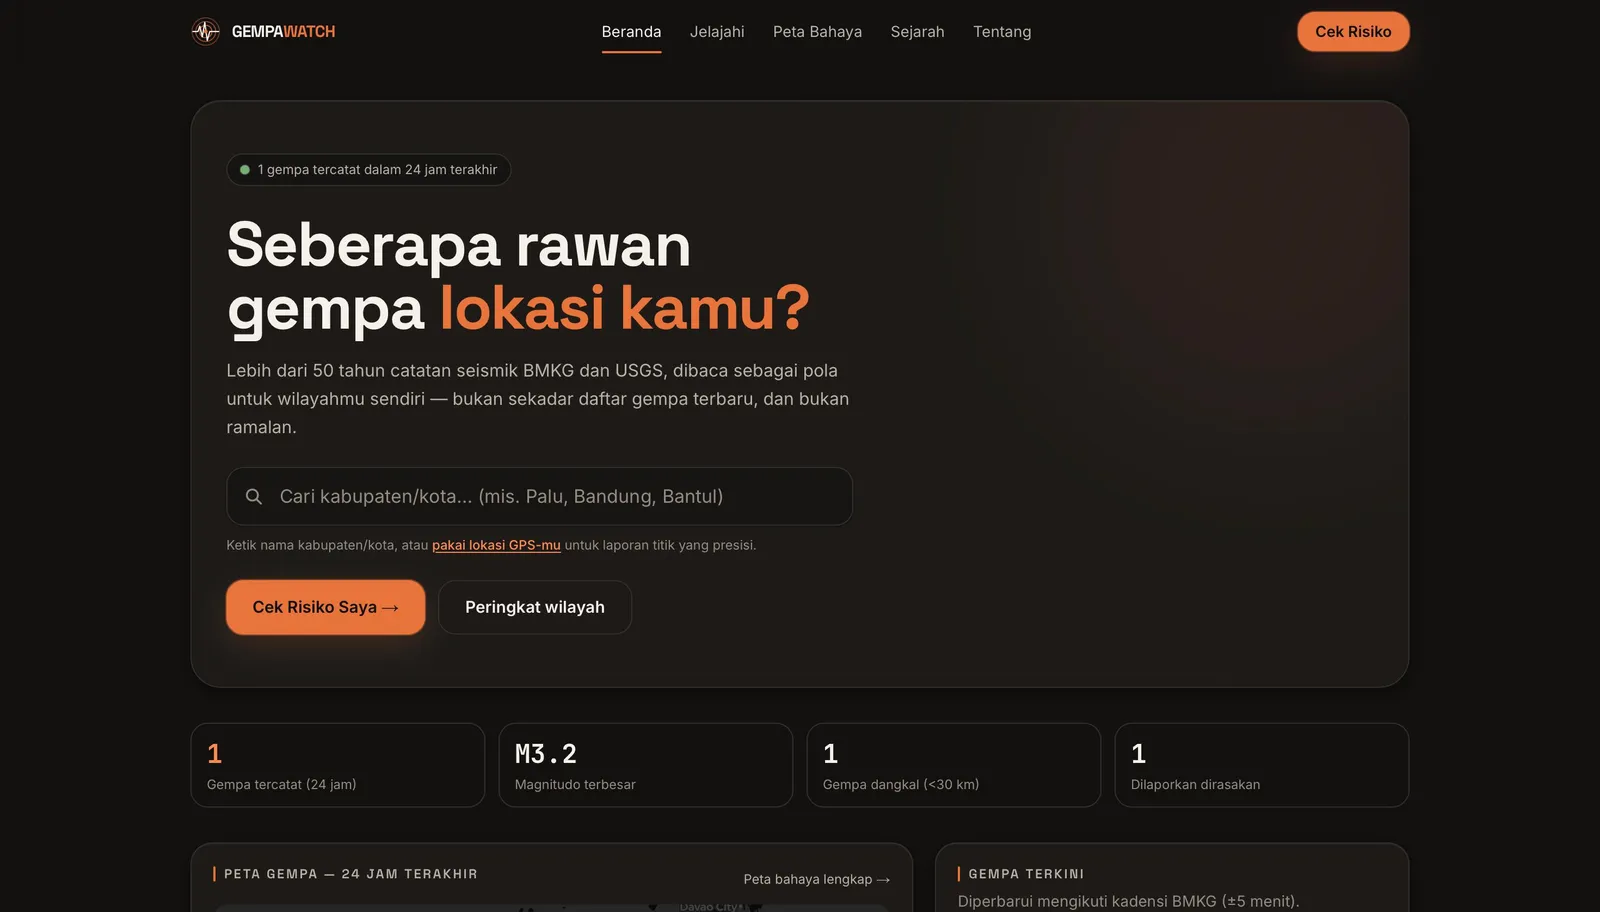
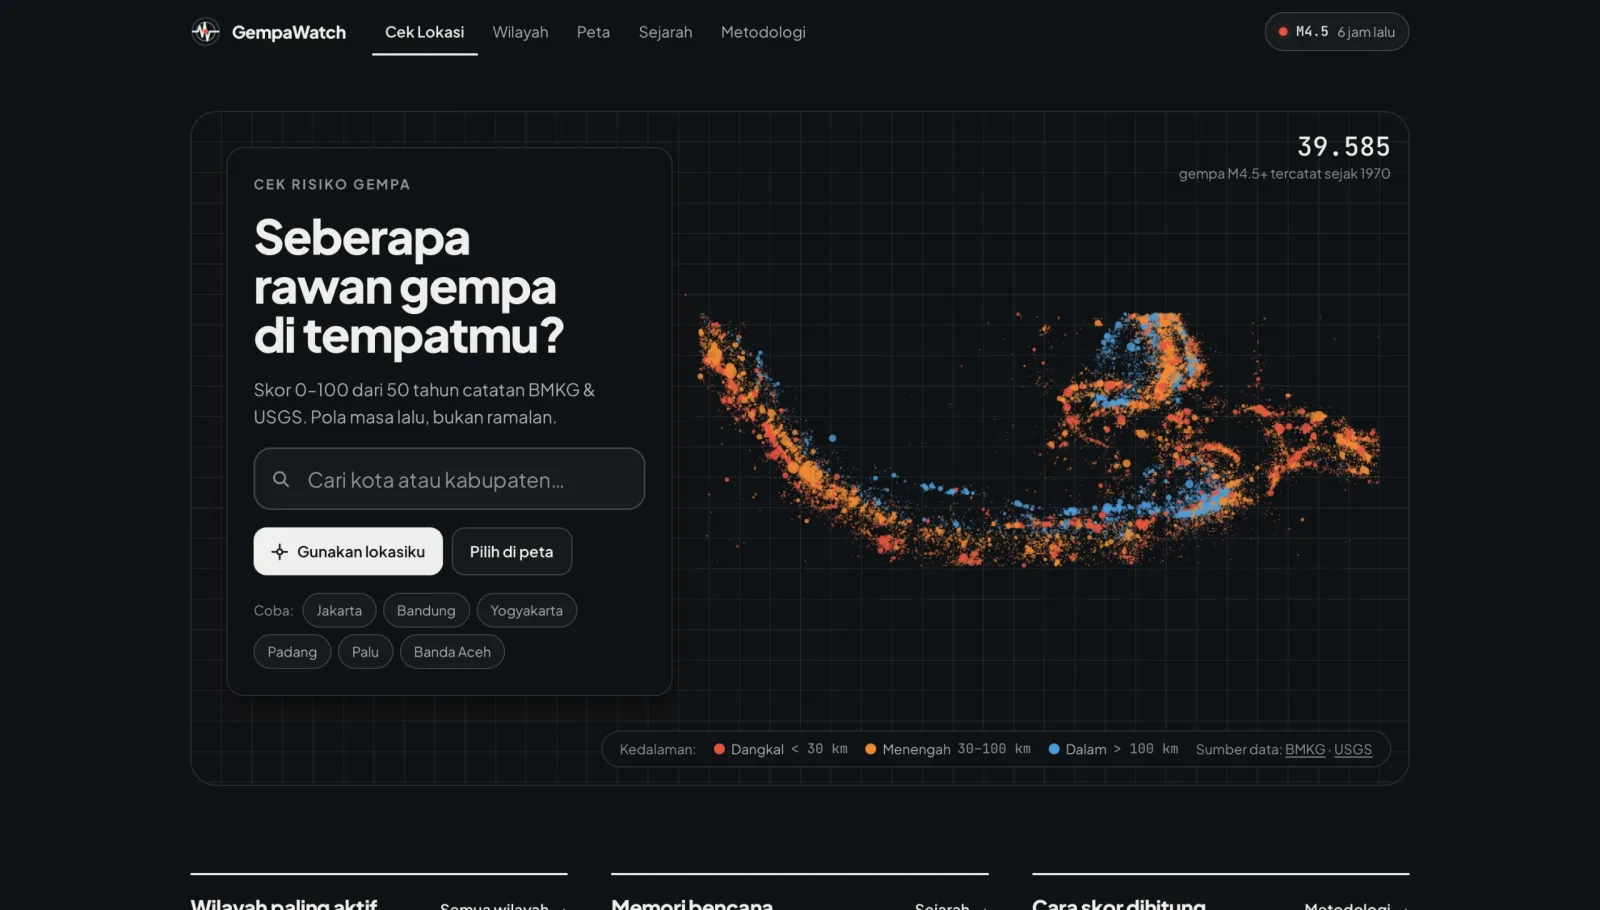
content(gempa-watch): refresh screenshots, add to featured work
Replaced the hero and all case-study screenshots with new captures
(10 screenshots now, up from 8), converted to WebP within the repo's
asset budget. Marked the project featured and appended it to
FEATURED_ORDER in lib/content.ts.

This is the third project featured across three consecutive requests,
which pushed the total past the home page's hardcoded strip size and
had already silently dropped Quranlytics off the last two pushes.
Bumped getFeaturedProjects(9) to getFeaturedProjects(11) in
app/[locale]/page.tsx so the strip shows every currently-featured
project instead of silently truncating — this also restores
Quranlytics' spot.

diff --git a/app/[locale]/page.tsx b/app/[locale]/page.tsx
@@ -133,7 +133,9 @@ export default async function HomePage({
 }) {
   const { locale } = await params;
   setRequestLocale(locale);
-  const featuredProjects = getFeaturedProjects(9);
+  // Matches the count of projects actually marked featured (see FEATURED_ORDER
+  // in lib/content.ts) so the strip never silently drops one off the end.
+  const featuredProjects = getFeaturedProjects(11);
   const stats = getPortfolioStats();
 
   return (

diff --git a/lib/content.ts b/lib/content.ts
@@ -134,6 +134,7 @@ const FEATURED_ORDER = [
   'doserx', // indep · tool
   'anatomi-rupiah', // indep · explainer
   'quranlytics', // indep · data
+  'gempa-watch', // indep · data
 ];
 
 export function getFeaturedProjects(limit = 3): ProjectMeta[] {
